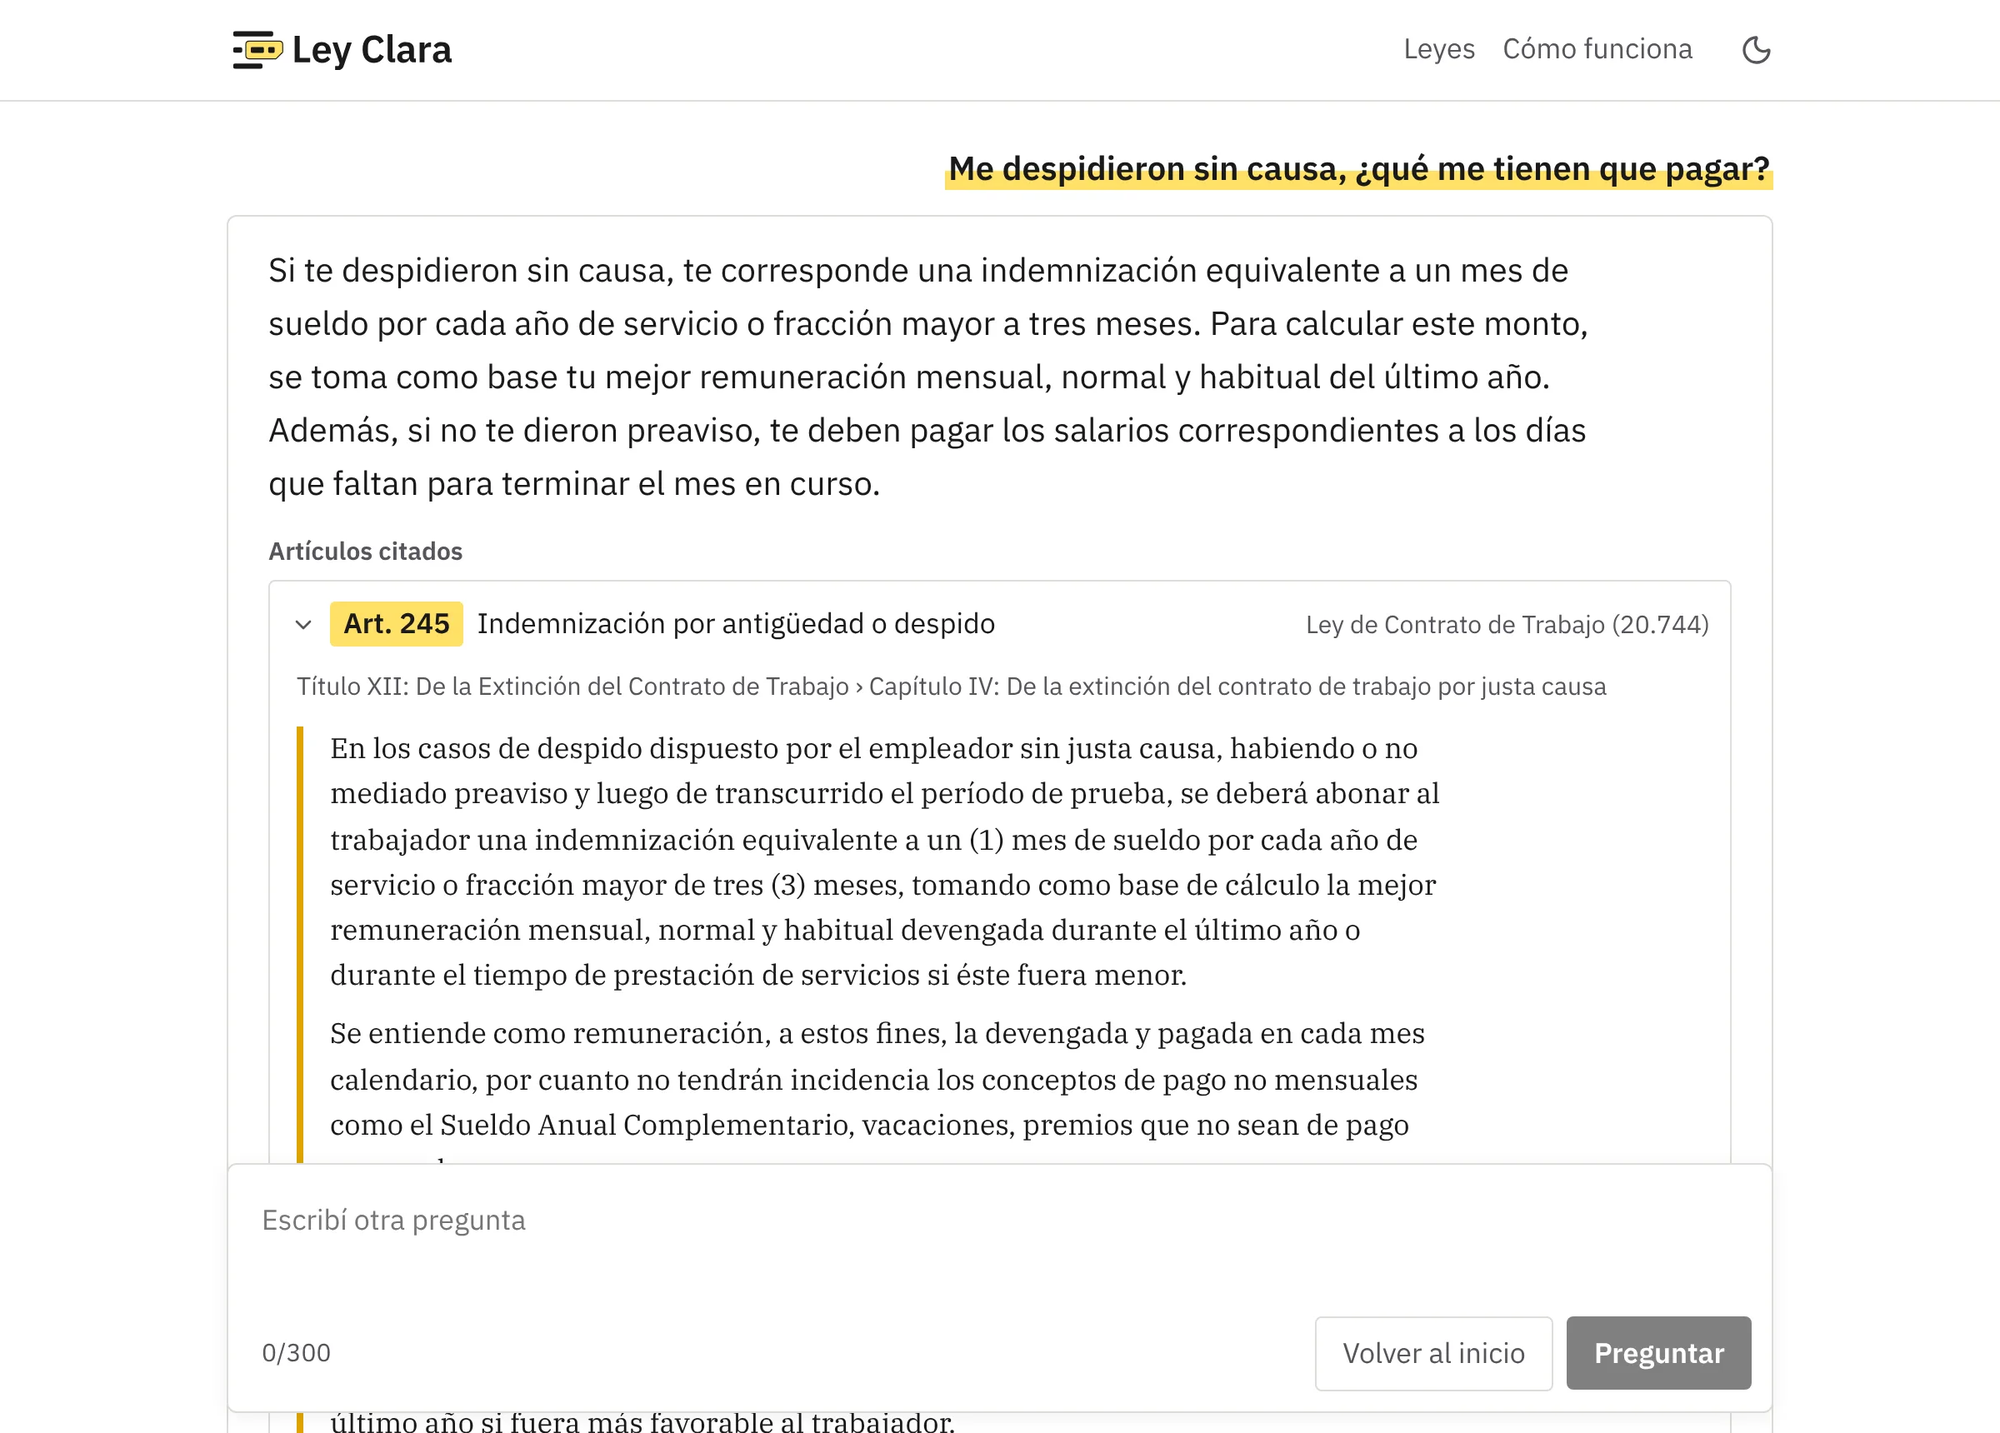
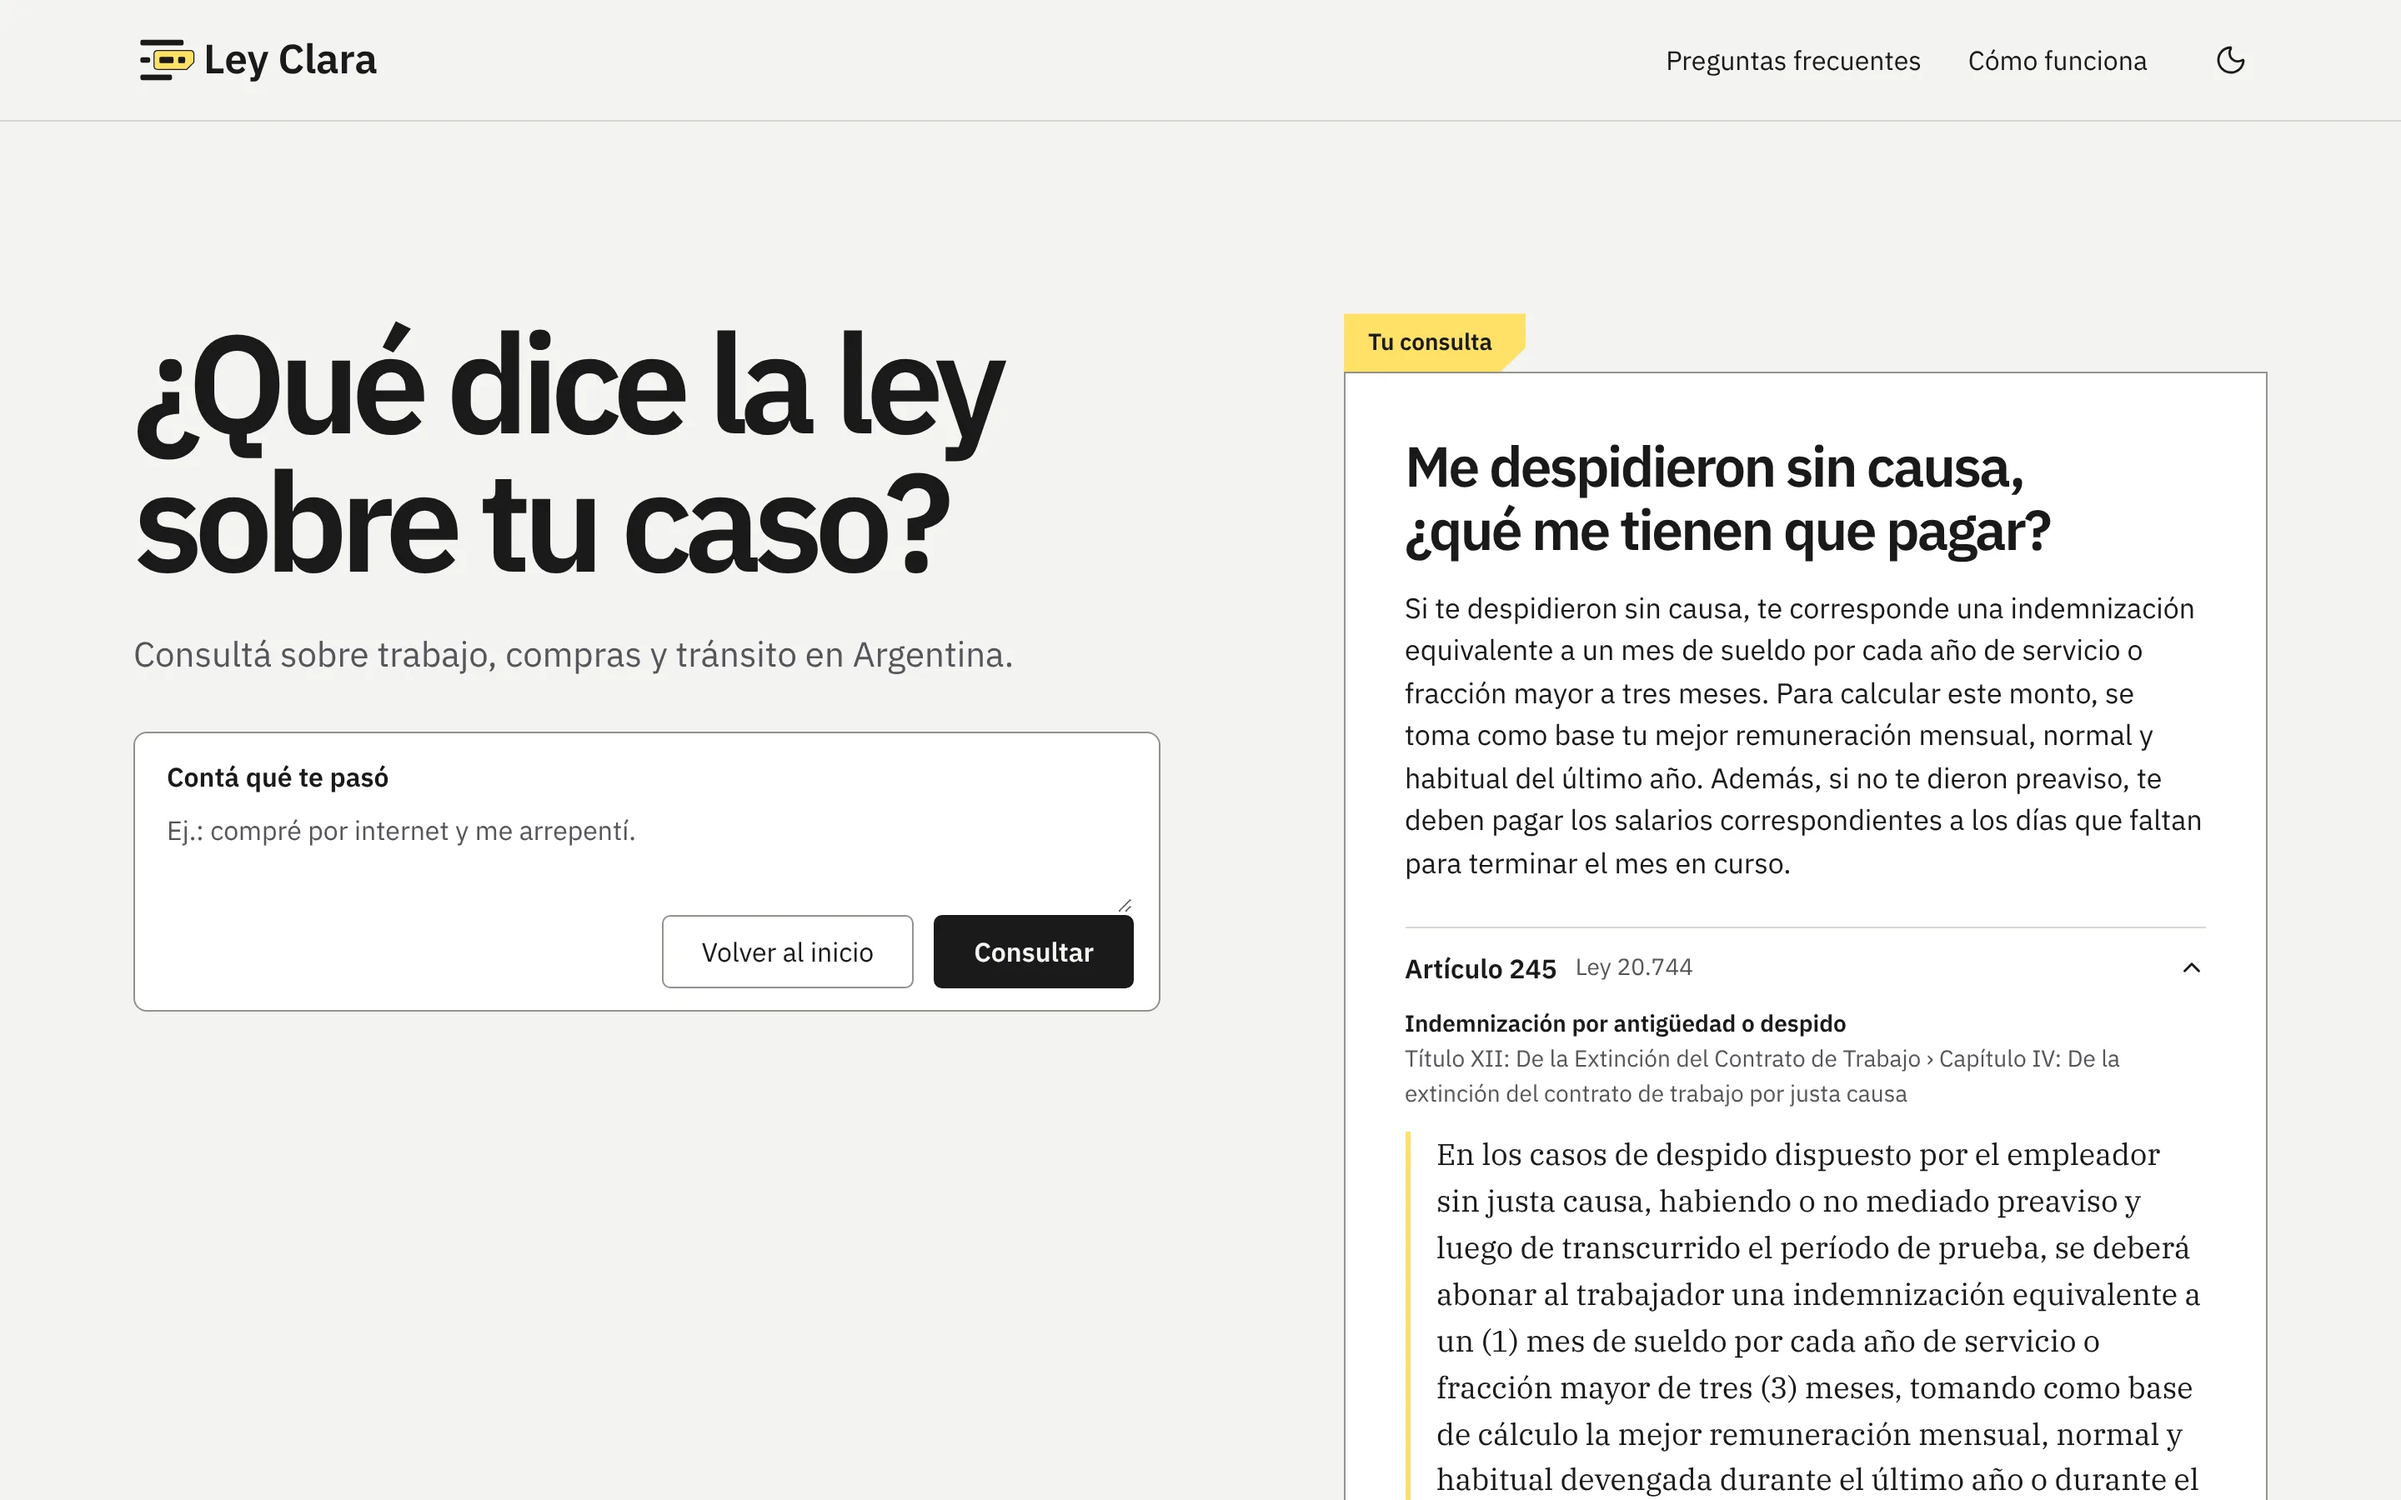
Update README screenshots for the new design

diff --git a/README.md b/README.md
@@ -7,7 +7,7 @@
 
 Ask in plain Spanish about your rights at work, as a consumer or on the road in Argentina, and get a short answer that cites the exact article of the law.
 
-![Home page with the three areas and example questions](docs/images/home.webp)
+![Home page with the question form, a sample answer and frequent questions](docs/images/home.webp)
 
 Most people start from a problem, like "me despidieron", "me vendieron algo fallado" or "me pararon en un control", and have no idea which law covers it. Ley Clara is organized around those situations, so nobody has to know. It searches the three laws it has, finds the articles that fit, answers in two or three sentences and shows the official text of each article it cites.
 
@@ -128,7 +128,7 @@ CI runs all of the above against a pgvector service, checks that the committed l
 ## Project layout
 
 ```
-src/config/        laws, areas, example questions, site name and limits
+src/config/        laws, areas, frequent questions, site name and limits
 src/lib/ingest/    InfoLEG HTML to articles, with amendments and dates
 src/lib/retrieval/ Spanish text processing, BM25, vector search, hybrid ranking
 src/lib/scope/     everyday words, area hints, uncovered topics
